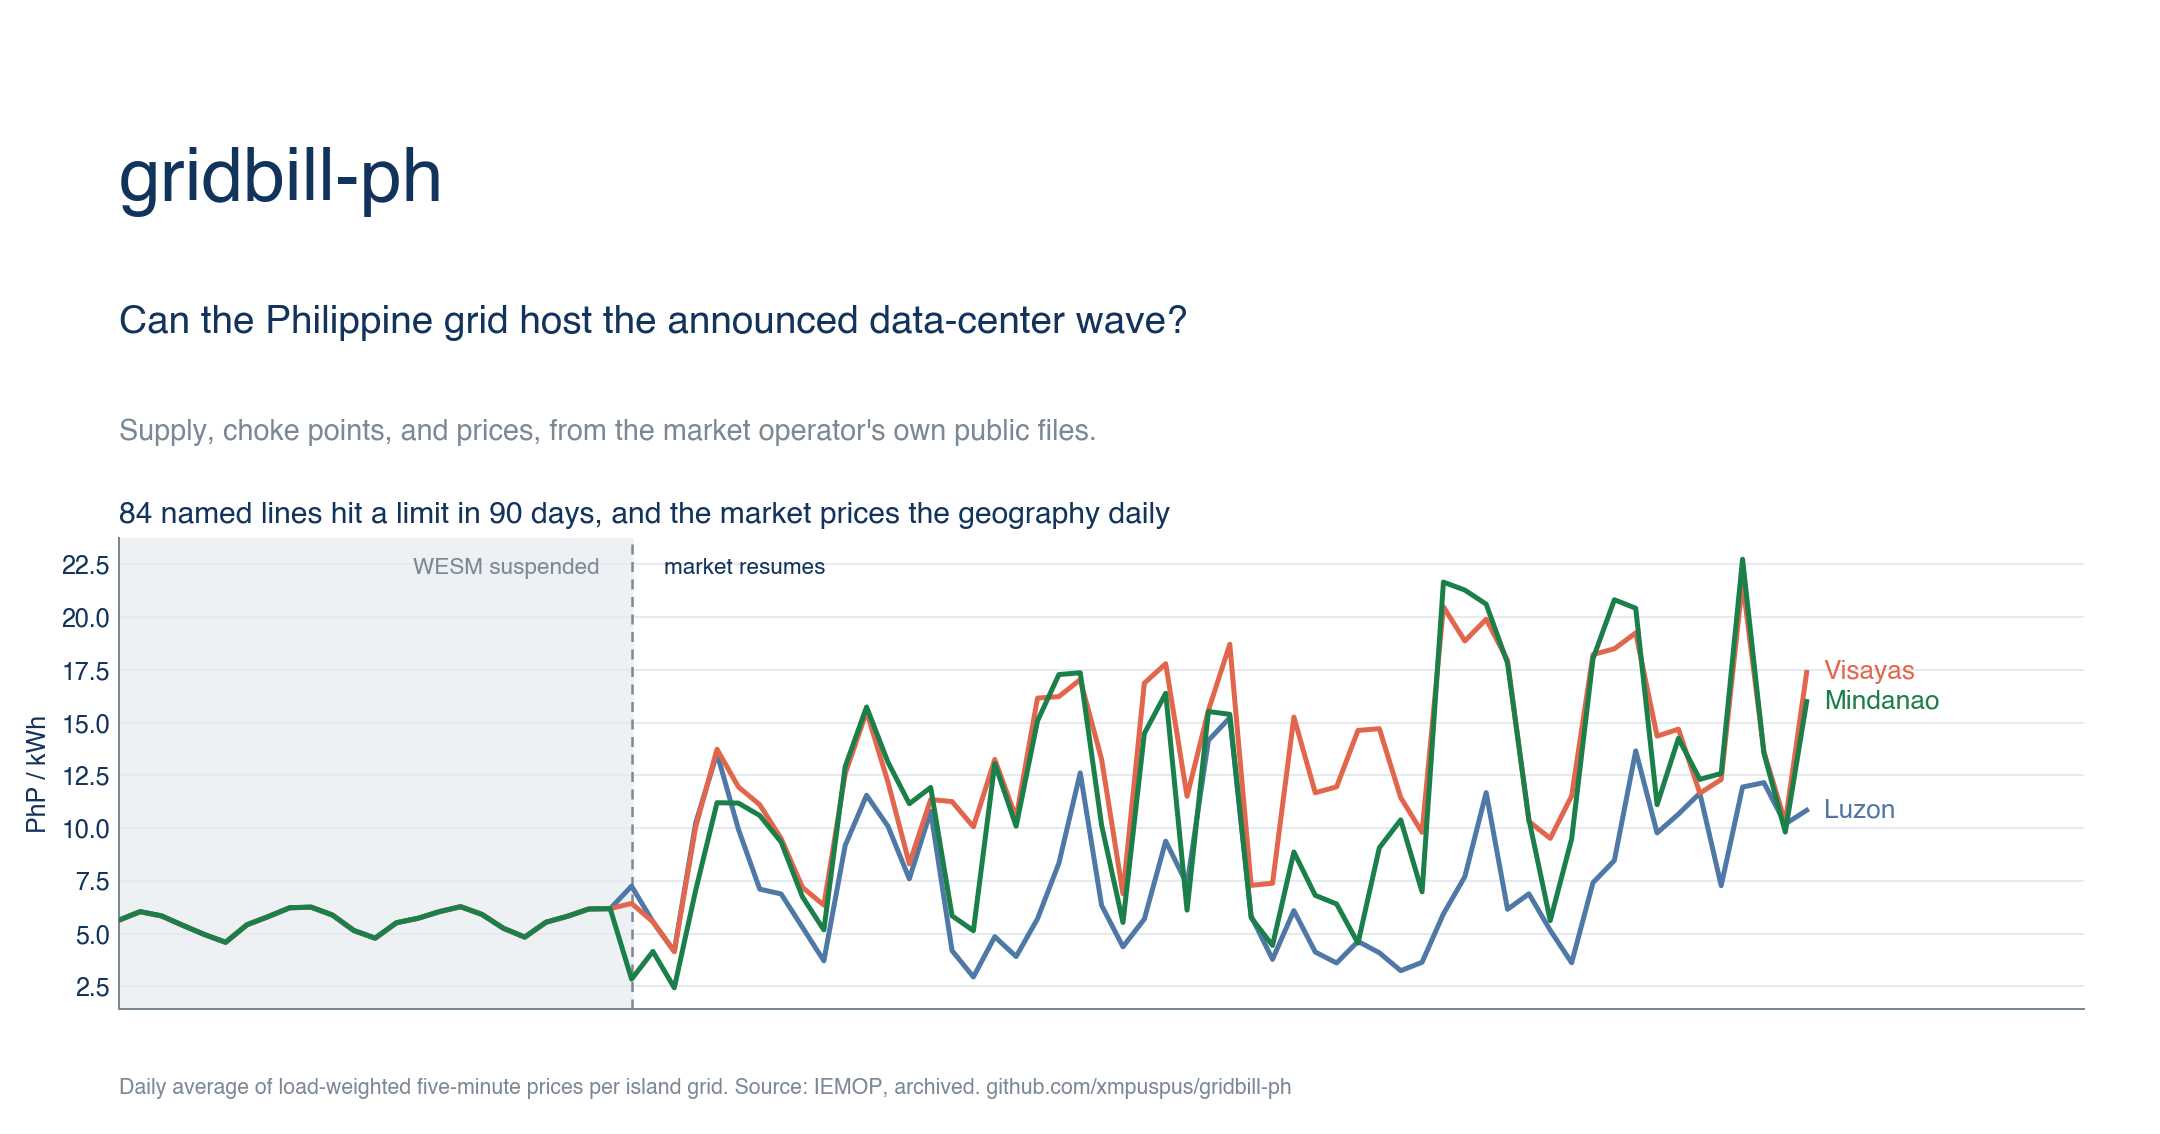
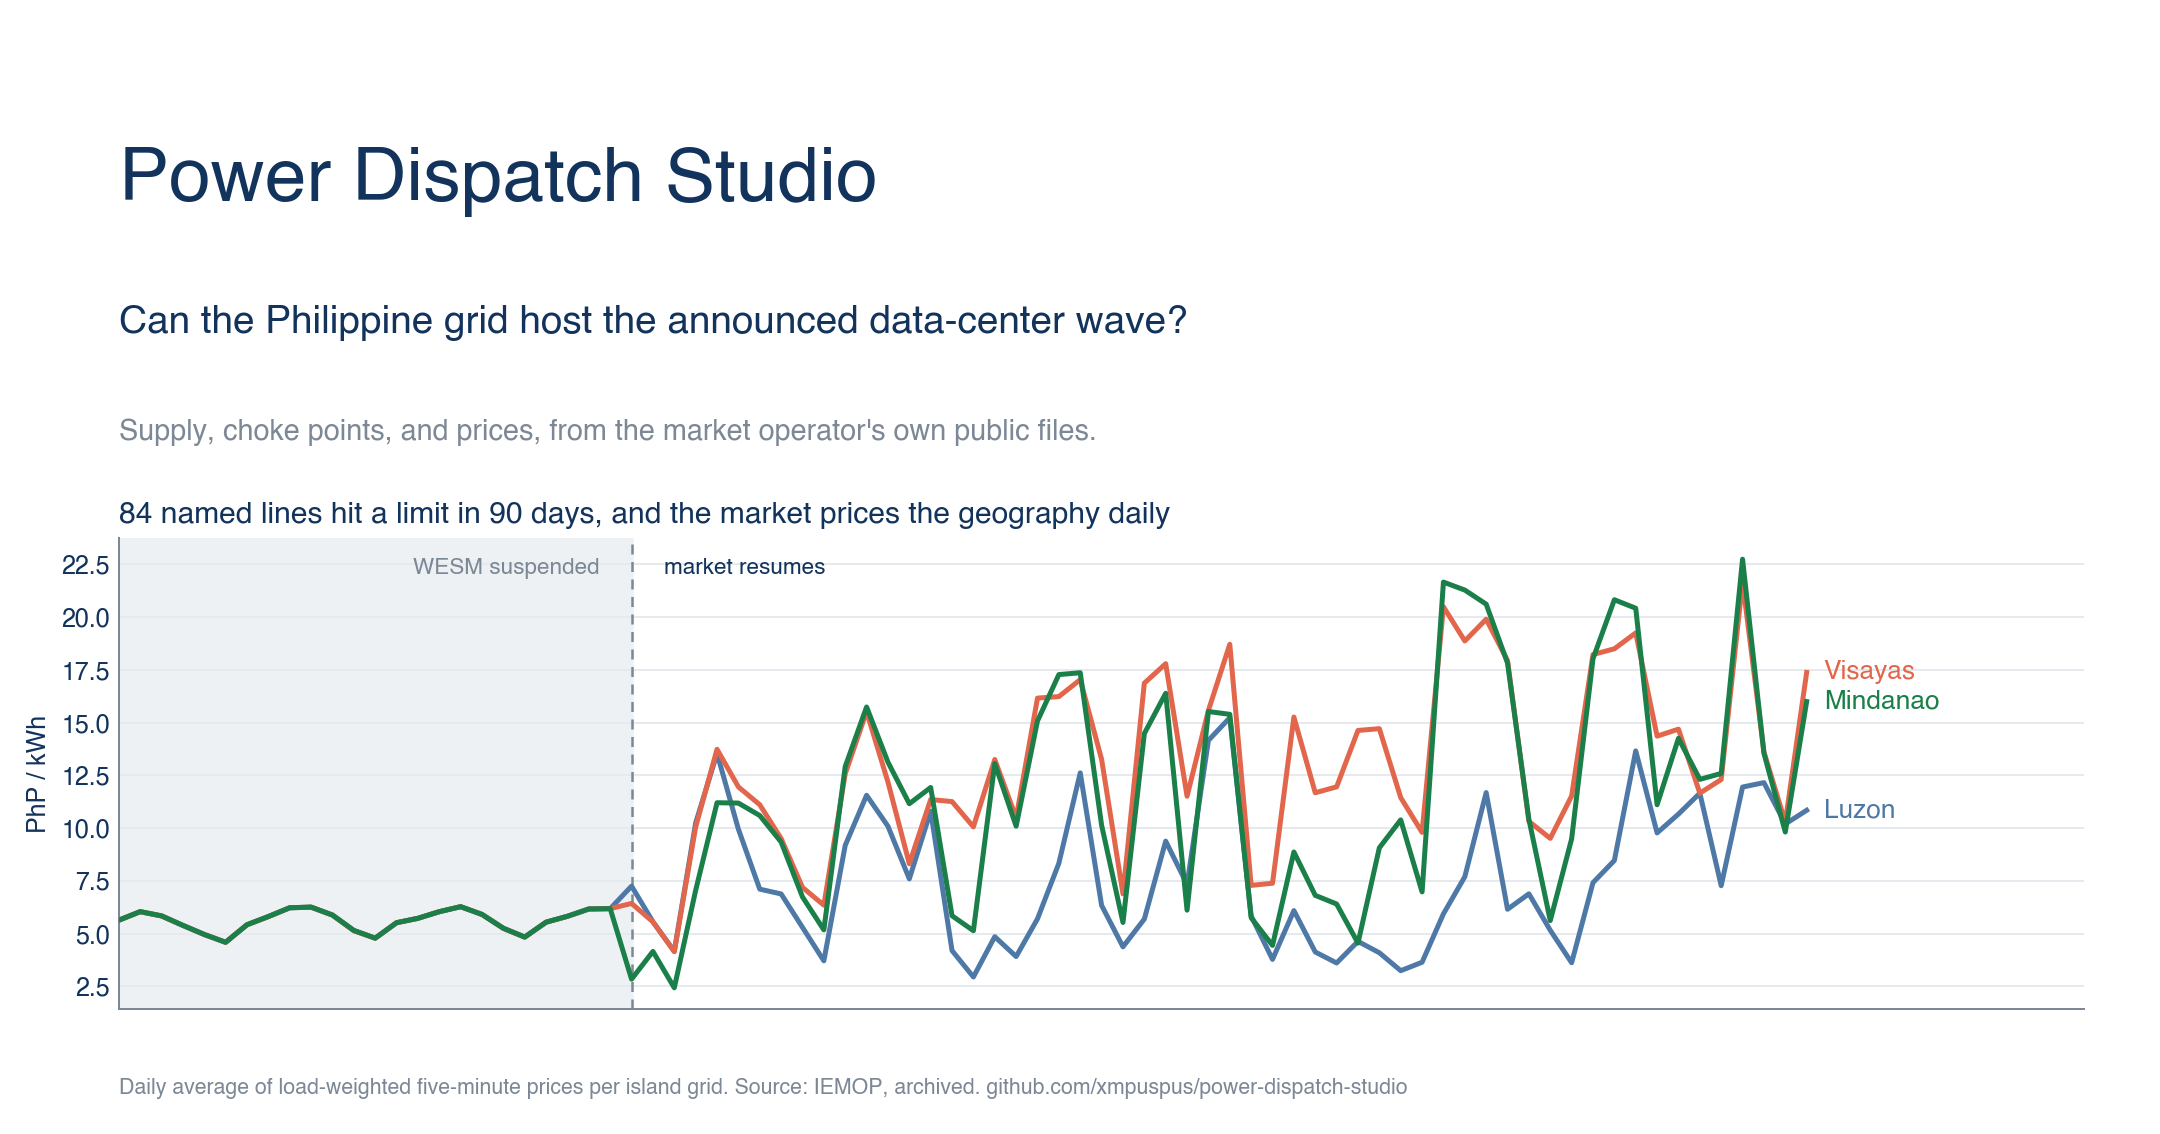
Rebrand the whole product to Power Dispatch Studio
The map, the studio, and the repo now carry one name. Applied across the
map page (title, header, og tags pointed at power-dispatch-studio
.vercel.app), the SPA landing brand, the methodology attribution, the
READMEs, the CSV filename prefixes, the saved-runs storage key, the e2e
brand assertion, docstrings, and the og card (regenerated with live
data). Demo GIF re-recorded on the rebranded landing. gridbill-us
references stay: that names the sibling US project. The GitHub repo is
renamed to xmpuspus/power-dispatch-studio (the old URL redirects) and
the Vercel project to power-dispatch-studio.

Changed region(s): [[0.031, 0.1235, 0.4032, 0.1852], [0.5583, 0.9568, 0.6514, 0.9877]]

diff --git a/web/index.html b/web/index.html
@@ -3,15 +3,15 @@
 <head>
 <meta charset="utf-8" />
 <meta name="viewport" content="width=device-width, initial-scale=1, maximum-scale=1" />
-<title>gridbill-ph - can the Philippine grid host the data-center wave?</title>
+<title>Power Dispatch Studio - can the Philippine grid host the data-center wave?</title>
 <meta name="description" content="A Philippine grid map built on the market operator's own public files: where transmission already binds, where the announced data-center megawatts land, and what the spot market and the Meralco bill are doing. Public IEMOP, NGCP, and Meralco data." />
-<meta property="og:title" content="gridbill-ph" />
+<meta property="og:title" content="Power Dispatch Studio" />
 <meta property="og:description" content="Can the Philippine grid host the data-center wave? The choke points already bind daily; the market prices them. Built on IEMOP's own public files." />
 <meta property="og:type" content="website" />
-<meta property="og:url" content="https://gridbill-ph.vercel.app/" />
-<meta property="og:image" content="https://gridbill-ph.vercel.app/og.png" />
+<meta property="og:url" content="https://power-dispatch-studio.vercel.app/" />
+<meta property="og:image" content="https://power-dispatch-studio.vercel.app/og.png" />
 <meta name="twitter:card" content="summary_large_image" />
-<meta name="twitter:image" content="https://gridbill-ph.vercel.app/og.png" />
+<meta name="twitter:image" content="https://power-dispatch-studio.vercel.app/og.png" />
 <link href="https://unpkg.com/maplibre-gl@4.7.1/dist/maplibre-gl.css" rel="stylesheet"
   integrity="sha384-MinO0mNliZ3vwppuPOUnGa+iq619pfMhLVUXfC4LHwSCvF9H+6P/KO4Q7qBOYV5V" crossorigin="anonymous" />
 <script src="https://unpkg.com/maplibre-gl@4.7.1/dist/maplibre-gl.js"
@@ -146,7 +146,7 @@
 <div id="map" aria-label="Map of the Philippines with grid choke points and data-center sites"></div>
 
 <div id="head" class="panel">
-  <h1>gridbill-ph</h1>
+  <h1>Power Dispatch Studio</h1>
   <p>Can the Philippine grid host the announced data-center wave? Built on the market
   operator's own public files: where transmission already binds, where the announced
   megawatts land, and what the spot market and the bill are doing.</p>
@@ -225,7 +225,7 @@ async function loadAll(){
   const failed = FILES.filter((f, i) => rs[i].status !== "fulfilled" || rs[i].value == null);
   if (failed.length){
     window.__diag.fetchFailures = failed;
-    console.warn("gridbill-ph: data files failed to load:", failed.join(", "));
+    console.warn("power-dispatch-studio: data files failed to load:", failed.join(", "));
     const b = $("banner");
     b.textContent = "Some data files failed to load (" + failed.join(", ") +
       "); parts of the map may be empty.";

diff --git a/web/methodology.html b/web/methodology.html
@@ -3,8 +3,8 @@
 <head>
 <meta charset="utf-8" />
 <meta name="viewport" content="width=device-width, initial-scale=1" />
-<title>gridbill-ph methodology - every number, every source</title>
-<meta name="description" content="Sources, access mechanics, units, and caveats for every number on gridbill-ph." />
+<title>Power Dispatch Studio methodology - every number, every source</title>
+<meta name="description" content="Sources, access mechanics, units, and caveats for every number in Power Dispatch Studio." />
 <style>
   :root{ --ink:#10212b; --muted:#5b6b75; --line:#e2e8ec; --bg:#f7f9fa; }
   *{ box-sizing:border-box; }
@@ -249,8 +249,8 @@ allegations, if any, require independent investigation and corroboration.
 </div>
 
 <p class="muted">Code MIT; baked data products CC-BY-4.0. Attribution when
-redistributing: gridbill-ph (2026), IEMOP public market data archive,
-https://github.com/xmpuspus/gridbill-ph.</p>
+redistributing: Power Dispatch Studio (2026), IEMOP public market data archive,
+https://github.com/xmpuspus/power-dispatch-studio.</p>
 </main>
 </body>
 </html>

diff --git a/studio/index.html b/studio/index.html
@@ -9,7 +9,7 @@
       content="Power Dispatch Studio, an open dispatch model of the Philippine WESM built on IEMOP's public files. An independent homage to the PLEXOS workflow. Not affiliated with Energy Exemplar."
     />
     <meta name="color-scheme" content="light dark" />
-    <title>Power Dispatch Studio · gridbill-ph</title>
+    <title>Power Dispatch Studio · Philippine WESM</title>
   </head>
   <body>
     <div id="root"></div>

diff --git a/studio/src/studio/RunsView.tsx b/studio/src/studio/RunsView.tsx
@@ -131,7 +131,7 @@ export function RunsView({
                       }
                       onClick={() =>
                         downloadCsv(
-                          `gridbill-run-${r.name.replace(/\W+/g, '-')}.csv`,
+                          `power-dispatch-run-${r.name.replace(/\W+/g, '-')}.csv`,
                           runCsv(
                             r.hours,
                             r.summaries.map((s) => s.date)

diff --git a/studio/src/App.tsx b/studio/src/App.tsx
@@ -27,7 +27,7 @@ export default function App() {
       <header className="app__bar">
         <div className="app__brand">
           <span className="app__logo">
-            gridbill<span className="app__logo-ph">·ph</span>
+            Power Dispatch<span className="app__logo-ph"> Studio</span>
           </span>
           <span className="app__brandsub">
             Philippine grid, priced from the operator's own files

diff --git a/studio/src/studio/ChronoView.tsx b/studio/src/studio/ChronoView.tsx
@@ -143,7 +143,7 @@ export function ChronologyView({
   }
   const exportCsv = () => {
     downloadCsv(
-      `gridbill-${date}${span === 'week' ? '-week' : ''}.csv`,
+      `power-dispatch-${date}${span === 'week' ? '-week' : ''}.csv`,
       runCsv(hours, windowDates)
     )
   }

diff --git a/studio/src/studio/runs.ts b/studio/src/studio/runs.ts
@@ -20,7 +20,7 @@ export interface SavedRun {
   summaries: ChronoSummary[]
 }
 
-const KEY = 'gridbill-studio-runs-v1'
+const KEY = 'power-dispatch-studio-runs-v1'
 export const MAX_RUNS = 12
 
 export function loadRuns(): SavedRun[] {

diff --git a/scripts/story_montage.py b/scripts/story_montage.py
@@ -1,6 +1,6 @@
 #!/usr/bin/env python3
 """One attachable view for LinkedIn: tile the figure panels into a single GIF with
-plain-English labels, so the whole gridbill-ph story reads in one frame.
+plain-English labels, so the whole Power Dispatch Studio story reads in one frame.
 
 Thesis: the choke points already bind daily and the market prices them; the announced
 data-center wave is the size of the margin; and a WESM swing is only a lagged slice of
@@ -21,8 +21,8 @@ from PIL import Image, ImageDraw, ImageFont
 
 ROOT = os.path.dirname(os.path.dirname(os.path.abspath(__file__)))
 DOCS = os.path.join(ROOT, "docs")
-SRC = "/tmp/gridbill_montage_src"
-FRAMES = "/tmp/gridbill_montage_frames"
+SRC = "/tmp/pds_montage_src"
+FRAMES = "/tmp/pds_montage_frames"
 OUT = os.path.join(DOCS, "story-montage.gif")
 
 NAVY, MUTE, CORAL = "#12335c", "#5b6b75", "#e2664b"
@@ -106,7 +106,7 @@ def main():
             canvas.paste(fit(frame, CELL_W, CELL_H), (x, y + LABEL_H))
         canvas.save(os.path.join(FRAMES, f"m{t:03d}.png"))
 
-    pal = "/tmp/gridbill_montage_pal.png"
+    pal = "/tmp/pds_montage_pal.png"
     vf = "fps=8,scale=1200:-1:flags=lanczos"
     subprocess.run(["ffmpeg", "-y", "-i", os.path.join(FRAMES, "m%03d.png"),
                     "-vf", vf + ",palettegen=stats_mode=diff", pal], check=True,

diff --git a/scripts/og_card.py b/scripts/og_card.py
@@ -37,7 +37,7 @@ def render(path, w_in, h_in, dpi):
 
     axt = fig.add_subplot(gs[0])
     axt.axis("off")
-    axt.text(0, 0.72, "gridbill-ph", fontsize=30, fontweight="bold",
+    axt.text(0, 0.72, "Power Dispatch Studio", fontsize=30, fontweight="bold",
              color=vz.NAVY, transform=axt.transAxes)
     axt.text(0, 0.30,
              "Can the Philippine grid host the announced data-center wave?",
@@ -70,7 +70,7 @@ def render(path, w_in, h_in, dpi):
 
     fig.text(0.055, 0.035,
              "Daily average of load-weighted five-minute prices per island grid. "
-             "Source: IEMOP, archived. github.com/xmpuspus/gridbill-ph",
+             "Source: IEMOP, archived. github.com/xmpuspus/power-dispatch-studio",
              fontsize=8.5, color=vz.MUTE)
     fig.savefig(path, dpi=dpi, facecolor="white")
     plt.close(fig)

diff --git a/scripts/price_shape_gif.py b/scripts/price_shape_gif.py
@@ -22,7 +22,7 @@ vz.apply()
 
 ROOT = os.path.dirname(os.path.dirname(os.path.abspath(__file__)))
 DOCS = os.path.join(ROOT, "docs")
-FRAMES = "/tmp/gridbill_shape_frames"
+FRAMES = "/tmp/pds_shape_frames"
 DATA = os.path.join(ROOT, "web", "data", "price_load.json")
 
 DC_MW = 300   # one large campus, e.g. the announced Narra Technology Park (3 x 100 MW)
@@ -90,7 +90,7 @@ def main():
         plt.close(fig)
 
     out = os.path.join(DOCS, "price-shape.gif")
-    pal = "/tmp/gridbill_shape_pal.png"
+    pal = "/tmp/pds_shape_pal.png"
     vf = "fps=12,scale=860:-1:flags=lanczos"
     subprocess.run(["ffmpeg", "-y", "-i", os.path.join(FRAMES, "f%03d.png"),
                     "-vf", vf + ",palettegen=stats_mode=diff", pal], check=True,

diff --git a/scripts/constraint_league_gif.py b/scripts/constraint_league_gif.py
@@ -21,7 +21,7 @@ vz.apply()
 
 ROOT = os.path.dirname(os.path.dirname(os.path.abspath(__file__)))
 DOCS = os.path.join(ROOT, "docs")
-FRAMES = "/tmp/gridbill_league_frames"
+FRAMES = "/tmp/pds_league_frames"
 DATA = os.path.join(ROOT, "web", "data", "congestion.json")
 
 # The Leyte-Cebu corridor lines: highlight in coral, everything else steel.
@@ -75,7 +75,7 @@ def main():
         plt.close(fig)
 
     out = os.path.join(DOCS, "constraint-league.gif")
-    pal = "/tmp/gridbill_league_pal.png"
+    pal = "/tmp/pds_league_pal.png"
     vf = "fps=12,scale=880:-1:flags=lanczos"
     subprocess.run(["ffmpeg", "-y", "-i", os.path.join(FRAMES, "f%03d.png"),
                     "-vf", vf + ",palettegen=stats_mode=diff", pal], check=True,

diff --git a/scripts/price_spread_gif.py b/scripts/price_spread_gif.py
@@ -22,7 +22,7 @@ vz.apply()
 
 ROOT = os.path.dirname(os.path.dirname(os.path.abspath(__file__)))
 DOCS = os.path.join(ROOT, "docs")
-FRAMES = "/tmp/gridbill_spread_frames"
+FRAMES = "/tmp/pds_spread_frames"
 DATA = os.path.join(ROOT, "web", "data", "prices.json")
 
 
@@ -80,7 +80,7 @@ def main():
         plt.close(fig)
 
     out = os.path.join(DOCS, "price-spread.gif")
-    pal = "/tmp/gridbill_spread_pal.png"
+    pal = "/tmp/pds_spread_pal.png"
     vf = "fps=10,scale=860:-1:flags=lanczos"
     subprocess.run(["ffmpeg", "-y", "-i", os.path.join(FRAMES, "f%03d.png"),
                     "-vf", vf + ",palettegen=stats_mode=diff", pal], check=True,
